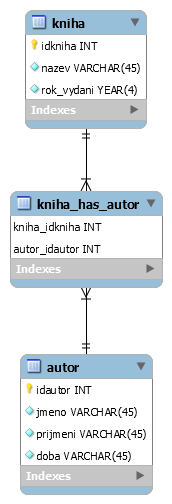
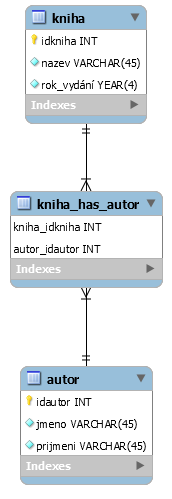
Add files via upload

Changed region(s): [[0.1163, 0.6613, 0.9012, 0.992], [0.0581, 0.3307, 0.9593, 0.6012], [0.1453, 0.0, 0.8721, 0.3006]]

diff --git a/html/proces.html b/html/proces.html
@@ -27,6 +27,7 @@
           <li><a href="">Vyhledání informacích</a></li>
           <li><a href="">Rozdělení informacích do tabulek</a</li>
           <li><a href="">Vytvoření relací</a></li>
+          <li><a href="">Normalizace databáze</a></li>
         </ul>
         <div class="block">
           <h2 id="2">Základní zásady</h2>
@@ -55,18 +56,39 @@
          <p>Další krok je určit jednotlivé entity (tabulky) databáze. Nejlepší je začít u entit, které plynou z předchozích kroků. Jako náš přiklad opět využiji lehkou databázi knihovny, takovou to databázi můžeme rozdělit na entity Kniha, Autor a Čtenář.
            Tyto entity budou obsahovat atributy podle toho, co vše je potřeba evidovat. Můžeme si tyto atributy tabulek zapsat: </p>
            <br>
-          <p>Kniha(nazev, počet stran, autora, žánr, popis ...)</p>
+          <p>Kniha(nazev, počet stran, popis, datum pujčení, termín vrácení, stav(pujčeno, vráceno))</p>
           <br>
-          <p>Autor(jméno, příjmení, doba)</p>
+          <p>Autor(jméno)</p>
           <br>
-          <p>Čtenář(jméno, příjmení, telefon, email, ulice, číslo popisné, PSČ, město, datum narození) </p>
+          <p>Čtenář(jméno, telefon, email, adresa, datum narození) </p>
           <br>
-          <p>Důvod proč ulice, číslo popisné, PSČ a město neukládáme pod jeden atribut; adresa, je aby jsme dodržely první zásadu při návrhu databáze - hodnoty mají být nedělitelné. Ten stejný důvod platí i pro jméno, které dělime na jméno a přijmení.
-            Podobný důvod je i proč jsme z autora udělami vlatní entitu. Kdyby byl autor atribut tak by se mohly jména autorů opakovat a to porušije naší 4 zásadu; data kromě klíčů by měla být uložena pouze jednou.
-          </p>
-          
+          <p>Důvod proč jsme z autora udělami vlatní entitu je aby jsme dodržely 4. zásadu při návrhu databáze - Data kromě odkazů na primární klíč by měla být uložena pouze jednou.  </p>
+          <h3>Určení primárních klíčů</h3>
+          <p>Teď je načase si určit primární klíče našich entit. Jak jsme si již říkali na minulé stránce primární klíče často bývají identifikační čísla, které se o jednu zvyšují z každým záznamem.
+            Tento styl primárních klíčů bude platit i u naších entit, protože nemají lepší jednoznačný identifikátor.
+          <h3>Vytvoření tabulek</h3>
+          <p>Ještě než vám ukáži, jak se tabulky vytváří je důležíte dbát na naše základní zásady. U entity autor a čtenár budeme uvádět atribut jméno, ale aby jsme dodržely 1.zásadu. tak jej musíme rozdělit na atributy jméno a přijmení. To samá platí u atributu adresa, který musíme rozdělit na ulici, číslo popisné (ČP), PSČ, město. 
+            Pokud jsme si tohoto vědomi můžeme začít vytvářet tabulky. Dole uvidíte video, kde vám ukáži, jak se tabulky vytvářejí a jak se vnich výtvářejí atributy, ve videu budu použivat software <a href="https://www.mysql.com/products/workbench/">MySQL workbench</a>.</p>
+          <video width="100%" controls> 
+          <source src="../videos/" type="video/mp4">
+          Váš prohlížeš nemuže přehrát toto video
+          </video>
        </div>
-      
+       <div class="block">
+        <h2>Vytvoření relací</h2>
+        <p>Když už máme naše tabulky, tak nás čeká další důležítý krok, vytvoření relací (vztahů) mezi tabulkami. Nejdříve musíme zjistit, jaký mají data z jedné tabulky vztah k datům z druhé tabulky a podle toho určit vazbu mezi nimi.
+         Např. u našich tabulek kniha a čtenář  můžeme vyjádřit vztah mezi jejich daty takto:"Jeden čtenář si může půjčit více knih, ale jedna kniha může být půjčena pouze jedním čtenářem". To znamená že relace mezi těmito entitami je 1:N.
+         Další relace je mezi tabulkami kniha a autor, vztah mezi těmito tabulkami lze vyjádřit takto:"Kniha může mít více autorů a autor může mít více knih". To znamená že relace mezi těmoto entitami je M:N. Mezi tabulkami autor a čtenář není žádná logická vazba.
+         Pod tímto textem najdete další video ukázku, kde uvidíte jak se tyto relace vytvářejí.
+        </p>
+        <video width="100%" controls> 
+          <source src="../videos/" type="video/mp4">
+          Váš prohlížeš nemuže přehrát toto video
+          </video>
+       </div>
+      <div class="block">
+        <p>Tady si můžete stáhnout náš návrh databáze:</p><a href="../dowloands/knihovna.mwb" download><img class="dow" src="../img/MySQL.png" alt="stahovaní logo"></a>
+        <p>Tady si můžete stáhnout SQL creation scrip s kterým budem pracovat v poslední části teto stránky:</p><a href="../dowloands/knihovnaSQL.zip" download><img class="dow" src="../img/SQL.png" alt="stahovaní logo"></a>
     </div>
 </main>  
 <footer>

diff --git a/html/dokonceni.html b/html/dokonceni.html
@@ -22,11 +22,54 @@
       <div class="text">
       <h1>Co se v článku dozvíte ?</h1>
         <ul class="obash">
-          <li><a href=""></a></li>
-          <li><a href=""></a></li>
-          <li><a href=""></a</li>
-          <li><a href=""></a></li>
+          <li><a href="">Odladění návrhu</a></li>
+          <li><a href="">Jazyk SQL</a</li>
+          <li><a href="">Naplnění databáze</a></li>
         </ul>
+      <div class="block">
+        <h2>Odladění návrhu</h2>
+        <p>Když už máme naše tabulky a relace hotové, je načase naší databázi vyzkoušet na testovacích datech.
+          Databázi naplníme testovacími daty a s těmito daty budeme pracovat (vytvářet dotazy, přidávat záznamy, měnit existující zaznamy, mazat záznamy...). Tímto způsobem můžeme objevit poteciální problémy,
+           např. že nám chýbějí nějaké atributy, nebo že máme přebytečné atributy (dají se zjistit z jiné tabulky) nebo že databáze obsahuje tabulku, ktetá se musí rozdělit na dvě. Níže vám ukáži, jak databázi daty naplnit a jak s nimi pracovat
+          , ale nejdříve si musíme něco říci o jazyku SQL.
+        </p>
+      </div>
+      <div class="block">
+        <h2>SQL</h2>
+        <p>SQL je zkratka (Structured Query Language) česky strukturovaný dotazovací jazyk. Pomocí tohoto jazyku můžeme získávat, vkládat, měnit nebo mazat data z databáze. Také nám dovoluje vytvářet objekty (tabulky) a nastavovat přistupová práva.</p>
+        <h3>Několik zaklaních SQL příkazů</h3>
+         <h4>Příkazy pro manipulaci z daty (DML - Data Manipulation Language)</h4>
+         <p>Tyto příkazy slouží k získaní dat z databáze a pro jejich úpravu.</p>
+        <ul class="SQL">
+          <li>SELECT - vybírá data z databáze, umožňuju výběr pod množin a řazení dat</li>
+          <li>INSERT - vkláda data do databáze</li>
+          <li>UPDATE - mění data v databázi</li>
+          <li>DELETE - odstraňuje záznamy z databáze</li>
+        </ul>
+        
+        <h4>Příkazy pro definici dat (DDL - Data Definition Language)</h4>
+        <p>Těmito příkazy se vytvářejí struktury databáze - tabulky, indexy, pohledy a další objekty.</p>
+        <ul class="SQL">
+          <li>CREATE - vytoří nový objekt</li>
+          <li>ALTER - mění již existující objekty</li>
+          <li>DROP - odstraní objekt</li>
+        </ul>
+        <h4>Příkazy pro řízení dat (DCL - Data Control Language)</h4>
+        <p>Tyto příkazy slouží k nastavení přístupových práv a řízení transakcí.</p>
+        <ul class="SQL">
+          <li>GRANT - přidělí oprávění uživateli k určitým objektům</li>
+          <li>REVOKE - odnětí práv uživateli</li>
+          <li>BEGIN - zahájení transakce</li>
+          <li>COMMIT - potvrzení transakce</li>
+          <li>ROLLBACK - zrušení transakce, návrat do původního stavu</li>
+        </ul>
+       <p>Na této stránce najdete více užitečných SQL příkazů:<a href="https://biportal.cz/zaklady-sql-nejpouzivanejsi-prikazy/">bipportal.cz</a></p>
+       <p>A pokud vám nevadí angličtina tak i na této stránce:<a href="https://www.w3schools.com/sql/">w3schools.com</a></p></p>
+      </div>
+      <div class="block">
+        <h2>Naplnění databáze</h2>
+        <p></p>
+      </div>
     </div>
 </main>  
 <footer>

diff --git a/html/zaklady.html b/html/zaklady.html
@@ -30,7 +30,7 @@
        <h2 id="1">Co je to databáze</h2>
          <p>Databáze je uspořádána množina dat, tyto data jsou vzájemně propojené a jsou uložené na nějakém vnějším médiu. Součástí databáze
            jsou i softwarové prostředky, které nám umožňují manipulaci s uloženými daty. Tento software se názývá systém řízení báze dat ve zkratce SŘBD.
-           Když spojíme SŘBD a databázy, vznikne nám tak znavý databázový systém. Databázový sýstem nám umožňuje shromažďovat, manipulavat, měnit, prohlížet a udržovat uložená data.
+           Když spojíme SŘBD a databázi, vznikne nám tak znavý databázový systém. Databázový sýstem nám umožňuje shromažďovat, manipulavat, měnit, prohlížet a udržovat uložená data.
          </p>
          <br>
          <p>Existuje spousta databozých modelu. Tyto modely se dělí podle toho jak ukládají data a vazby.
@@ -57,15 +57,15 @@
           <li>DOUBLE - Desetiná čísla</li>
           <li>DATE - Datum ve formátu "RRRR-MM-DD"</li>
           <li>VARCAHR - Text o délce max. 255 znaků</li>
-          <li>TEXT - Delčí texty</li>
+          <li>TEXT - Delší texty</li>
         </ul>
-  
+         <p>Další datové typy mužete vidět <a href="https://www.promotic.eu/cz/pmdoc/Subsystems/Db/MySql/DataTypes.htm">zde</a>.</p>
         <h4 >Řádky tabulky (záznamy)</h4>
         <p>Řádky tabulky neboli záznamy jsou jeden konkrétní výpis daných atributů např. u tabulky zákazník by záznam byl.</p>
         <img class ="zaznam" src="../img/zaz.png"  alt="záznam">
         <h4>Klíče</h4>
         <h5>Primární klíč</h5>
-        <p>Primární klíč je atribut, který jednoznačně definuje jednotlivé záznamy. Obvykle bývá nějaké identifikační číslo, které se posouvá o jedno dopředu s každým záznamem. Jak vidíte na obrázku záznamu tak idZakazník je 1, to znamená že další záznam by byl idZakazník 2.</p>
+        <p>Primární klíč je atribut, který jednoznačně definuje jednotlivé záznamy. Obvykle bývá nějaké identifikační číslo, které se posouvá o jedno dopředu s každým záznamem. Jak vidíte na obrázku záznamu tak idZakazník je 1, to znamená že další záznam by byl idZakazník 2. Tuto funkci vám zajišťuje parament AUTO INCREMENT (AI).</p>
         <h5>Cizí klíče</h5>
         <p>Cizí klíč je primární klič z jiné tabulky. Jde o atribut, podle kterého poznáme jaké tabulky jsou spolu v relaci.</p>
       </div>  

diff --git a/css/style.css b/css/style.css
@@ -81,7 +81,6 @@ flex-direction: column;
 }
 .obash a {
   text-decoration: none;
-  color: rgb(47, 79, 79);
   font-weight: bold;
   font-size: 38px;
 }
@@ -89,7 +88,7 @@ flex-direction: column;
     text-decoration: underline;
 }
 .text {
-  width: 90%;
+  width: 92%;
   font-size:37px;
 }
 
@@ -129,10 +128,21 @@ margin-top: 2%;
 .text ul{
   color: rgb(63, 61, 61);
   margin-left: 2%;
-  ;
+ 
+}
+.SQL{
+ margin-top: 2%;
 }
 .text ul li{
   margin-bottom: 1%;
+}
+.text a{
+  text-decoration: none;
+  font-weight: bold;
+  color:rgb(75, 70, 70);
+}
+.text a:hover{
+  text-decoration: underline;
 }
 section{
   content: '';
@@ -202,13 +212,21 @@ footer .Fmenu  a:hover{
 }
 .oneN{
   content: url(../img/Mob1kuN.png);
-  width: 70%; 
+  width: 75%; 
   height: 80%; 
 }
 .MN{
   content: url(../img/MobMkuN.png);
   width: 70%; 
   height: 80%;
+}
+video{
+  object-fit: contain;
+}
+.dow{
+  width: 100px;
+  height: 100px;
+  
 }
 
 @media all and (min-width: 1000px){
@@ -296,7 +314,16 @@ footer .Fmenu  a:hover{
   }
   .MN{
     content: url(../img/MkuN.png);
-    width: 834px;
-   height: 160px;
+    width: 724px;
+   height: 138px;
+  }
+  video{
+    object-fit: contain;
+    margin-top: 2%;
+  }
+  .dow{
+    width: 48px;
+    height: 48px;
+    padding-top:2%;
   }
 }
